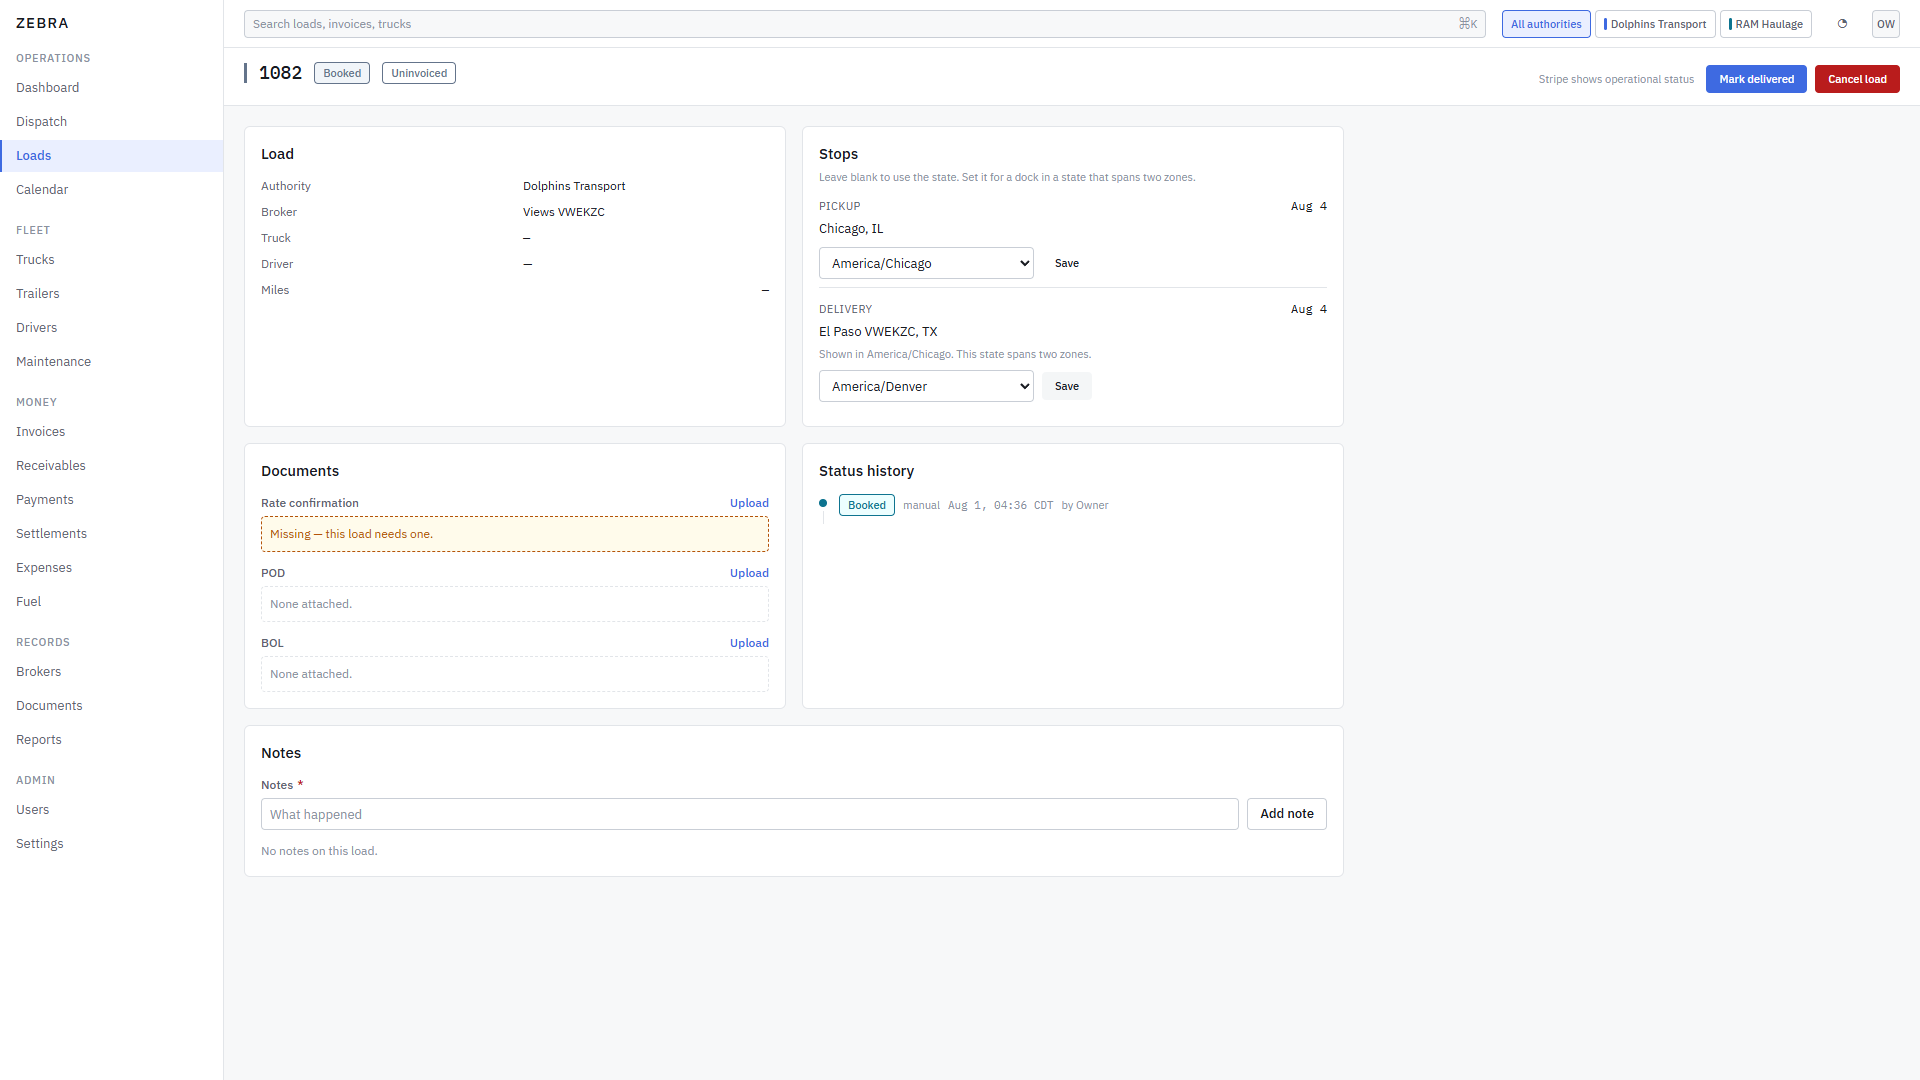
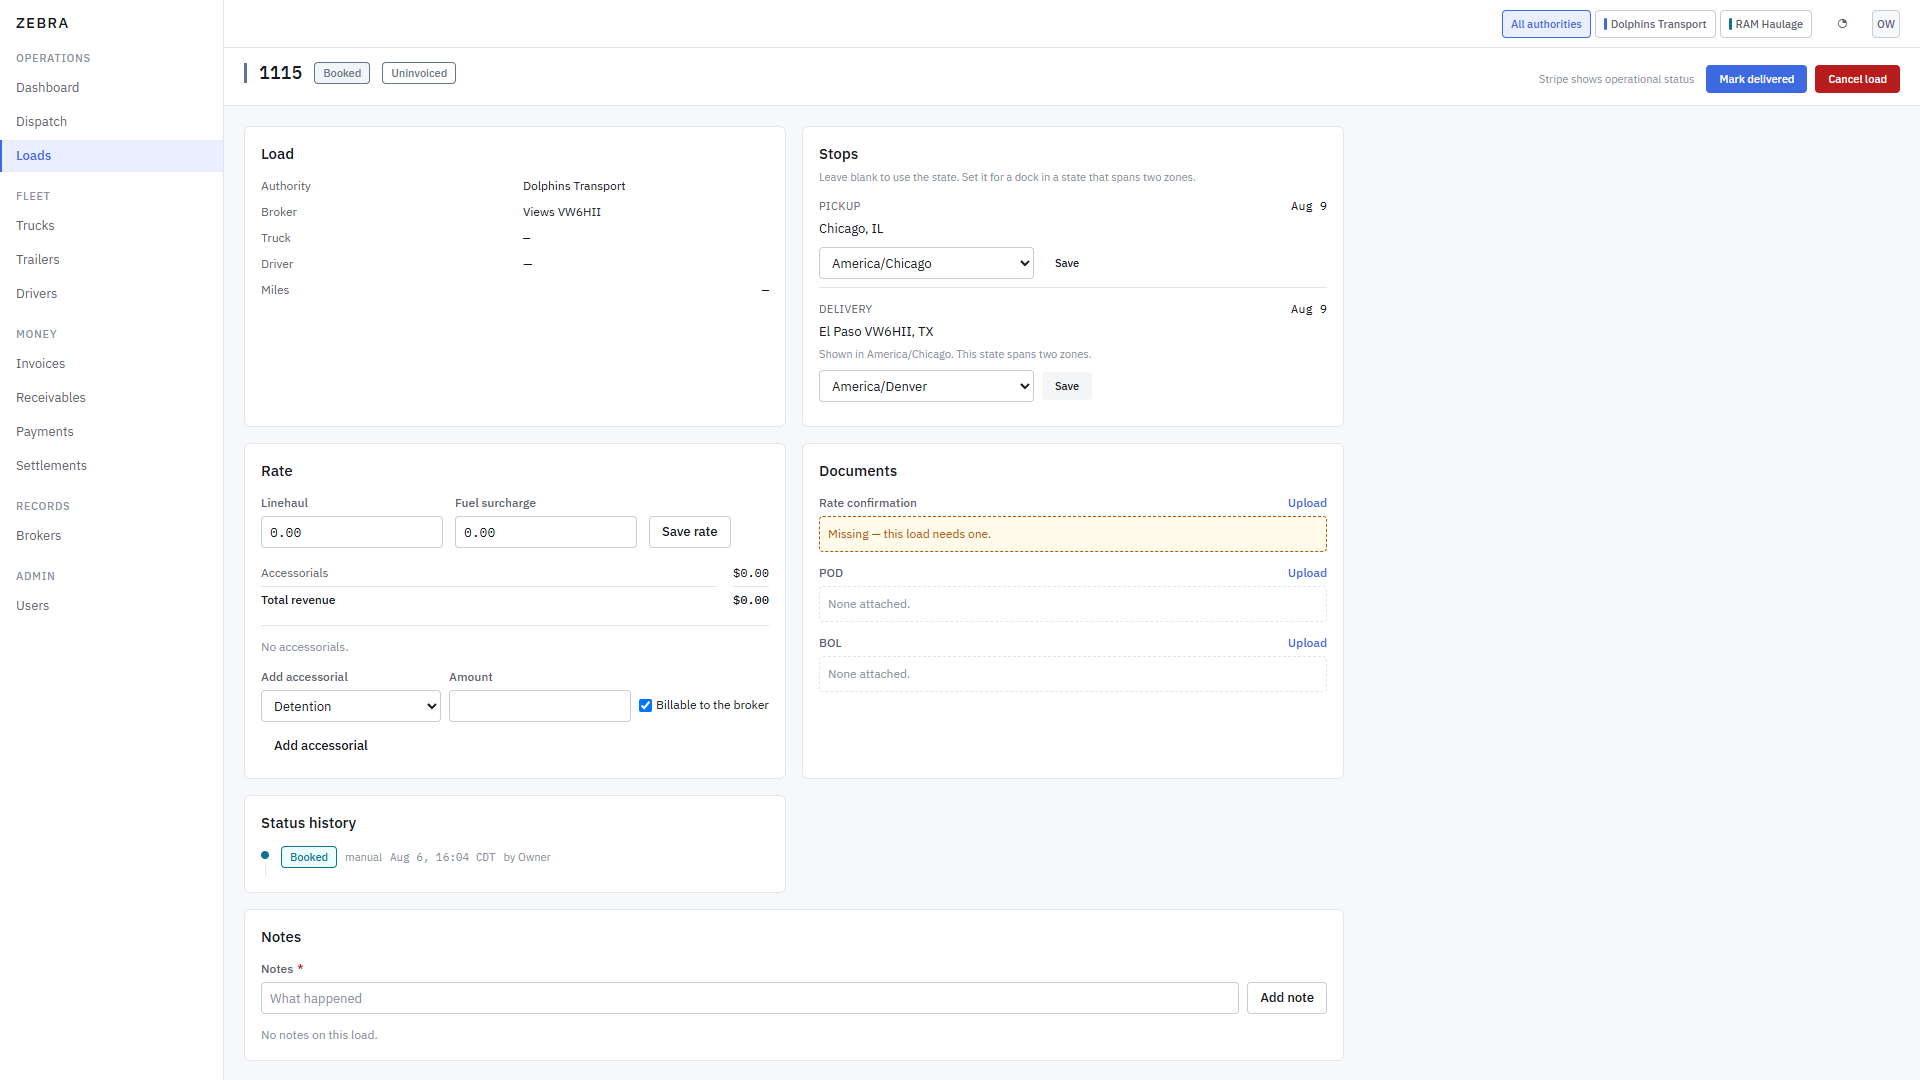
Sign-in lands on the dashboard too
Step B moved the bare domain to /dashboard and left a sign-in going to
/loads, so the two arrival routes disagreed. Both go to the dashboard
now — it is the first screen of the day and signing in is the start of
it. /login with an existing session goes to the same place, so arriving
with a cookie and arriving with credentials land together.

Every operator role holds `dashboard:read`: OWNER and ADMIN through
EVERYTHING, MANAGER and DISPATCHER through OPERATIONS_READ, ACCOUNTING
explicitly. A DRIVER holds neither this nor `load:read`, so the operator
application refuses them exactly where it refused them before.

Eleven scripts waited strictly on /loads after sign-in; they now accept
either, which is what seven of them already did and the reason those
seven needed no change. A wait that pins the destination is a wait that
fails every time it moves.

Four ASSERTIONS about where a sign-in lands moved rather than loosened —
one in verify-dispatcher, three in verify-users. "Signed in successfully"
and "landed somewhere" are different claims, and the second is not worth
making.

verify-users failed 18/20 on the first run after the change and named
both: exactly what an assertion on the destination is for.

diff --git a/src/app/(auth)/actions.ts b/src/app/(auth)/actions.ts
@@ -87,7 +87,15 @@ export async function signInAction(
     })
   }
 
-  redirect('/loads')
+  // THE FIRST SCREEN OF THE DAY, and signing in is the start of it. This was
+  // /loads until Step B, which left the two arrival routes disagreeing: the
+  // bare domain went to the dashboard and a sign-in went to Loads.
+  //
+  // Every operator role holds `dashboard:read` — OWNER and ADMIN through
+  // EVERYTHING, MANAGER and DISPATCHER through OPERATIONS_READ, ACCOUNTING
+  // explicitly. A DRIVER holds neither this nor `load:read`, so the operator
+  // application refuses them here exactly as it refused them at /loads.
+  redirect('/dashboard')
 }
 
 export async function signOutAction(): Promise<void> {

diff --git a/src/app/(auth)/login/page.tsx b/src/app/(auth)/login/page.tsx
@@ -4,8 +4,10 @@ import { getLocaleContext } from '@/lib/locale'
 import { LoginForm } from './LoginForm'
 
 export default async function LoginPage() {
-  // Already signed in? The login screen is not a place to linger.
-  if (await getSession()) redirect('/loads')
+  // Already signed in? The login screen is not a place to linger. Same
+  // destination as a fresh sign-in, so arriving at /login with a session and
+  // arriving with credentials land in the same place.
+  if (await getSession()) redirect('/dashboard')
 
   const { t } = await getLocaleContext()
 
